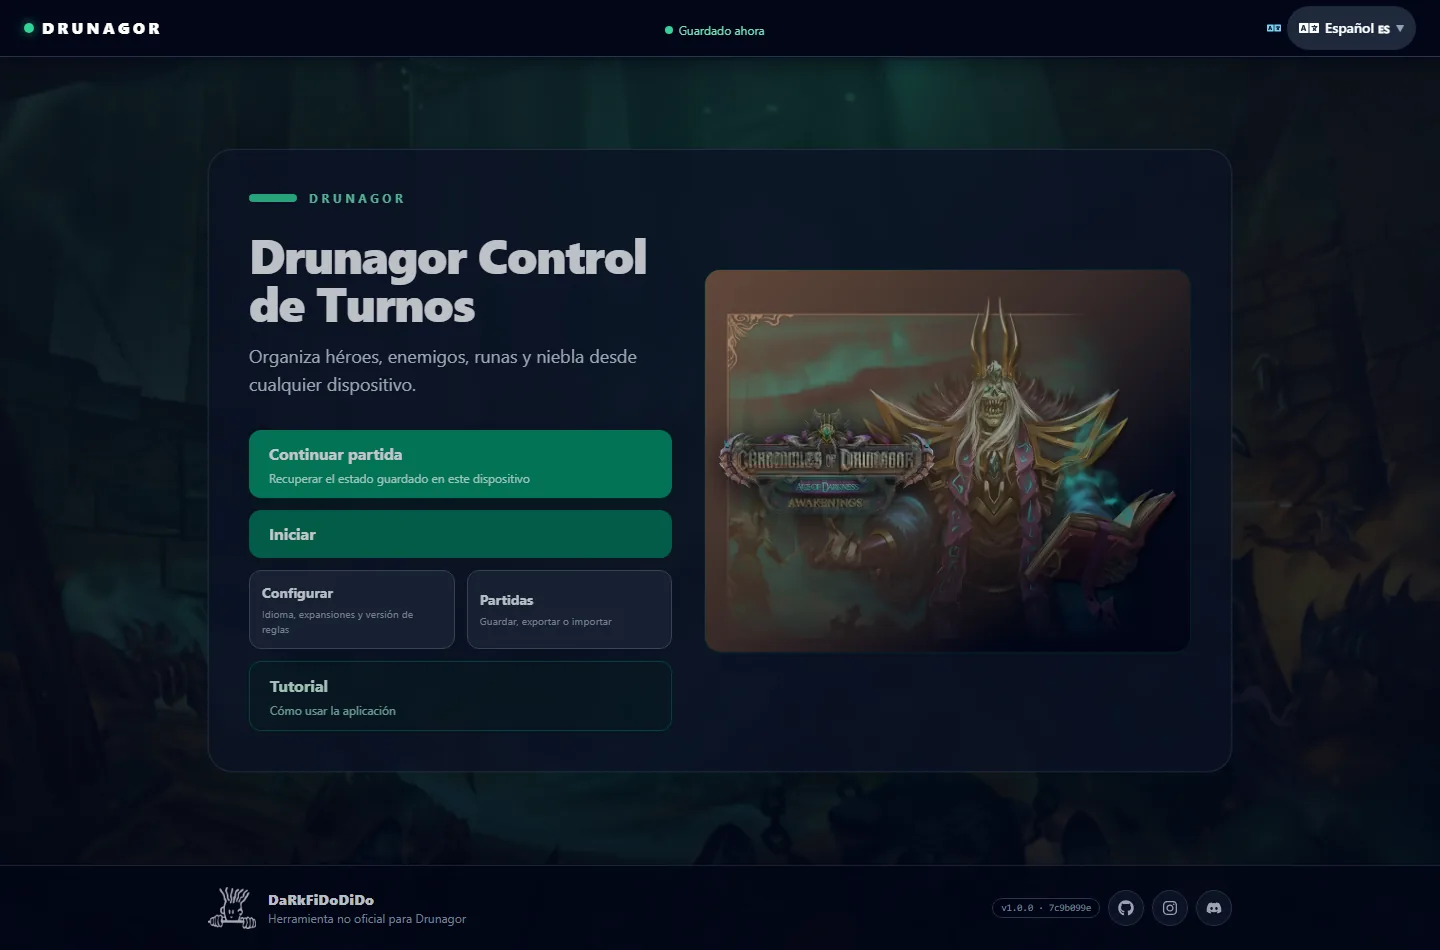
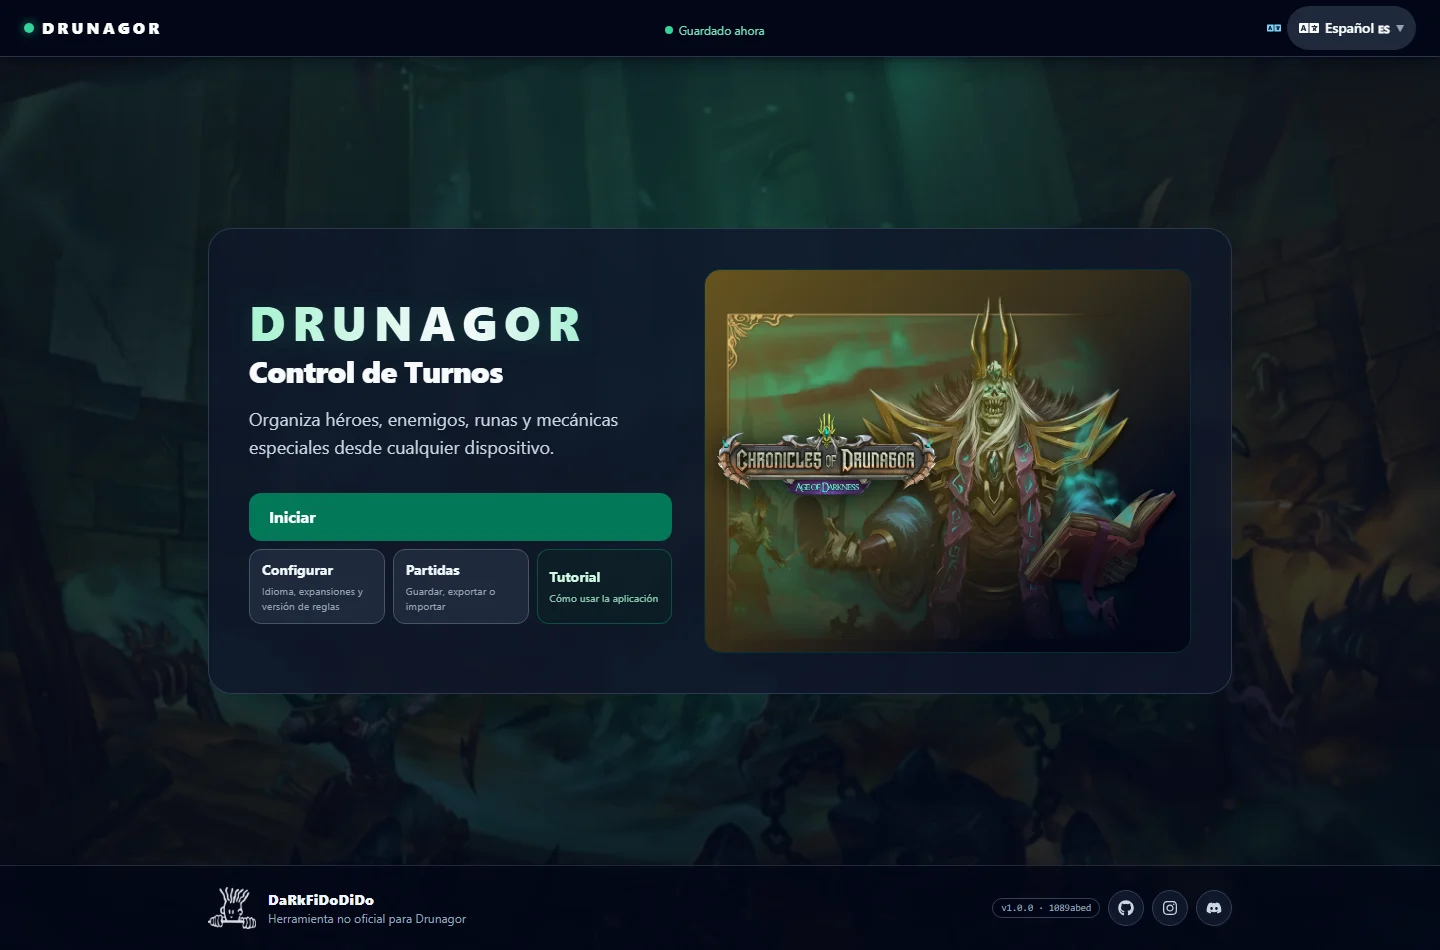
Renovar la portada y unificar los accesos

diff --git a/src/pages/HomeMenu.jsx b/src/pages/HomeMenu.jsx
@@ -81,18 +81,22 @@ export default function HomeMenu() {
         <div className="relative z-10 flex flex-1 items-center justify-center px-4 py-10 sm:px-6">
         <div className="grid w-full max-w-5xl gap-8 overflow-hidden rounded-3xl border border-slate-700/80 bg-slate-900/80 p-5 shadow-2xl shadow-emerald-950/30 backdrop-blur sm:p-8 lg:grid-cols-[1fr_1.15fr] lg:p-10">
           <section className="flex flex-col justify-center">
-            <div className="mb-6 flex items-center gap-3">
-              <span className="h-2 w-12 rounded-full bg-emerald-400" aria-hidden="true" />
-              <span className="text-xs font-bold uppercase tracking-[0.3em] text-emerald-300">Drunagor</span>
-            </div>
-            <h1 className="max-w-xl text-4xl font-black leading-tight tracking-tight text-slate-50 sm:text-5xl">
-              {home.title || 'Control de turnos para tu campaña'}
+            <h1
+              className="max-w-xl"
+              aria-label={`${home.title_line1 || 'Drunagor'} ${home.title_line2 || 'Control de Turnos'}`}
+            >
+              <span className="block bg-gradient-to-r from-emerald-200 via-slate-50 to-emerald-300 bg-clip-text text-4xl font-black uppercase leading-none tracking-[0.14em] text-transparent drop-shadow-[0_2px_12px_rgba(16,185,129,0.18)] sm:text-5xl">
+                {home.title_line1 || 'Drunagor'}
+              </span>
+              <span className="mt-2 block text-2xl font-black leading-tight tracking-tight text-slate-50 sm:text-3xl">
+                {home.title_line2 || 'Control de Turnos'}
+              </span>
             </h1>
             <p className="mt-4 max-w-xl text-base leading-7 text-slate-300 sm:text-lg">
-              {home.subtitle || 'Organiza héroes, enemigos, runas y niebla desde cualquier dispositivo.'}
+              {home.subtitle || 'Organiza héroes, enemigos, runas y mecánicas especiales desde cualquier dispositivo.'}
             </p>
 
-            <div className="mt-8 grid gap-3 sm:max-w-md">
+            <div className="mt-8 grid gap-2 sm:max-w-xl">
               {savedSession && (
                 <button
                   type="button"
@@ -110,32 +114,32 @@ export default function HomeMenu() {
               >
                 {home.start_tracker || 'Nueva partida'}
               </button>
-              <div className="grid grid-cols-2 gap-3">
+              <div className="grid grid-cols-3 gap-2">
                 <button
                   type="button"
                   onClick={() => navigate("/config")}
-                  className="min-h-12 rounded-xl border border-slate-600 bg-slate-800 px-3 py-3 text-left font-bold text-slate-100 transition hover:border-slate-400 hover:bg-slate-700 focus-visible:outline-none focus-visible:ring-2 focus-visible:ring-sky-300"
+                  className="min-h-14 rounded-xl border border-slate-600 bg-slate-800 px-2 py-2.5 text-left font-bold text-slate-100 transition hover:border-slate-400 hover:bg-slate-700 focus-visible:outline-none focus-visible:ring-2 focus-visible:ring-sky-300 sm:px-3"
                 >
-                  <span className="block text-sm">{home.configure_environment || 'Configurar entorno'}</span>
-                  <span className="mt-1 block text-[0.65rem] font-normal leading-snug text-slate-400">{home.configure_hint || 'Idioma, expansiones y versión de reglas'}</span>
+                  <span className="block text-xs leading-tight sm:text-sm">{home.configure_environment || 'Configurar entorno'}</span>
+                  <span className="mt-1 hidden text-[0.65rem] font-normal leading-snug text-slate-400 sm:block">{home.configure_hint || 'Idioma, expansiones y versión de reglas'}</span>
                 </button>
                 <button
                   type="button"
                   onClick={() => navigate("/saves")}
-                  className="min-h-12 rounded-xl border border-slate-600 bg-slate-800 px-3 py-3 text-left font-bold text-slate-100 transition hover:border-slate-400 hover:bg-slate-700 focus-visible:outline-none focus-visible:ring-2 focus-visible:ring-sky-300"
+                  className="min-h-14 rounded-xl border border-slate-600 bg-slate-800 px-2 py-2.5 text-left font-bold text-slate-100 transition hover:border-slate-400 hover:bg-slate-700 focus-visible:outline-none focus-visible:ring-2 focus-visible:ring-sky-300 sm:px-3"
                 >
-                  <span className="block text-sm">{home.saves || 'Partidas'}</span>
-                  <span className="mt-1 block text-[0.65rem] font-normal leading-snug text-slate-400">{home.saves_hint || 'Guardar, exportar o importar'}</span>
+                  <span className="block text-xs leading-tight sm:text-sm">{home.saves || 'Partidas'}</span>
+                  <span className="mt-1 hidden text-[0.65rem] font-normal leading-snug text-slate-400 sm:block">{home.saves_hint || 'Guardar, exportar o importar'}</span>
+                </button>
+                <button
+                  type="button"
+                  onClick={() => navigate("/tutorial")}
+                  className="min-h-14 rounded-xl border border-emerald-700/60 bg-emerald-950/30 px-2 py-2.5 text-left font-bold text-emerald-100 transition hover:border-emerald-400 hover:bg-emerald-900/40 focus-visible:outline-none focus-visible:ring-2 focus-visible:ring-emerald-300 sm:px-3"
+                >
+                  <span className="block text-xs leading-tight sm:text-sm">{home.tutorial || 'Tutorial'}</span>
+                  <span className="mt-1 hidden text-[0.65rem] font-normal leading-snug text-emerald-200/80 sm:block">{home.tutorial_hint || 'Cómo usar la aplicación'}</span>
                 </button>
               </div>
-              <button
-                type="button"
-                onClick={() => navigate("/tutorial")}
-                className="min-h-12 rounded-xl border border-emerald-700/60 bg-emerald-950/30 px-5 py-3 text-left font-bold text-emerald-100 transition hover:border-emerald-400 hover:bg-emerald-900/40 focus-visible:outline-none focus-visible:ring-2 focus-visible:ring-emerald-300"
-              >
-                <span className="block">{home.tutorial || 'Tutorial'}</span>
-                <span className="mt-1 block text-xs font-normal text-emerald-200/80">{home.tutorial_hint || 'Cómo usar la aplicación'}</span>
-              </button>
             </div>
           </section>
 

diff --git a/tests/e2e/fase-a.spec.js b/tests/e2e/fase-a.spec.js
@@ -20,6 +20,29 @@ test.describe('Fase A · navegación y configuración', () => {
     await expect(footer.getByTestId('build-badge')).toBeVisible();
   });
 
+  test('la portada presenta el título en dos líneas y los tres accesos en una fila', async ({ page }) => {
+    await page.setViewportSize({ width: 1440, height: 950 });
+    await page.goto('./', { waitUntil: 'networkidle' });
+
+    await expect(page.getByRole('heading', { name: 'Drunagor Control de Turnos' })).toBeVisible();
+    await expect(page.getByText('Organiza héroes, enemigos, runas y mecánicas especiales desde cualquier dispositivo.')).toBeVisible();
+
+    const accessButtons = [
+      page.locator('main').getByRole('button', { name: /^Configurar/ }),
+      page.locator('main').getByRole('button', { name: /^Partidas/ }),
+      page.locator('main').getByRole('button', { name: /^Tutorial/ }),
+    ];
+    const boxes = [];
+    for (const button of accessButtons) {
+      await expect(button).toBeVisible();
+      boxes.push(await button.boundingBox());
+    }
+    expect(Math.abs(boxes[0].y - boxes[1].y)).toBeLessThan(2);
+    expect(Math.abs(boxes[1].y - boxes[2].y)).toBeLessThan(2);
+    expect(boxes[0].x).toBeLessThan(boxes[1].x);
+    expect(boxes[1].x).toBeLessThan(boxes[2].x);
+  });
+
   test('el tutorial abre desde la portada y muestra sus secciones', async ({ page }) => {
     await page.goto('./', { waitUntil: 'networkidle' });
     await page.getByRole('button', { name: /^Tutorial/ }).click();

diff --git a/docs/REVISION-ARQUITECTURA.md b/docs/REVISION-ARQUITECTURA.md
@@ -6286,6 +6286,23 @@ Unit       264 tests
 E2E        167/167
 ```
 
+### 371.ª tanda — Nueva portada y accesos en fila
+
+| Cambio | Detalle | Archivos |
+|---|---|---|
+| **Título** | “Drunagor” en una línea y “Control de Turnos” debajo, con degradado esmeralda y sin el rótulo verde repetido | `HomeMenu`, i18n |
+| **Texto** | La portada menciona “mecánicas especiales” en lugar de “niebla”, en español e inglés | i18n |
+| **Accesos** | Configurar, Partidas y Tutorial comparten una sola fila; las pistas se ocultan en móvil para no romper la línea | `HomeMenu` |
+| **Capturas** | Portadas ES/EN del tutorial actualizadas en documentación y web | `docs/tutorial/assets`, `public/tutorial/assets` |
+| **Pruebas** | 264 unitarios · 168 E2E | tests |
+
+**Medición**
+
+```text
+Unit       264 tests
+E2E        168/168
+```
+
 ### Pendiente / pospuesto
 
 - **Enemigos (paso 3)**: cerrado (chips de color/categoría y contador en el selector manual).

diff --git a/README.md b/README.md
@@ -165,7 +165,7 @@ Suite esperada antes de cada entrega:
 ```text
 lint      0 errores / 0 avisos
 unit      264 tests
-e2e       167 tests
+e2e       168 tests
 build     OK
 ```
 
